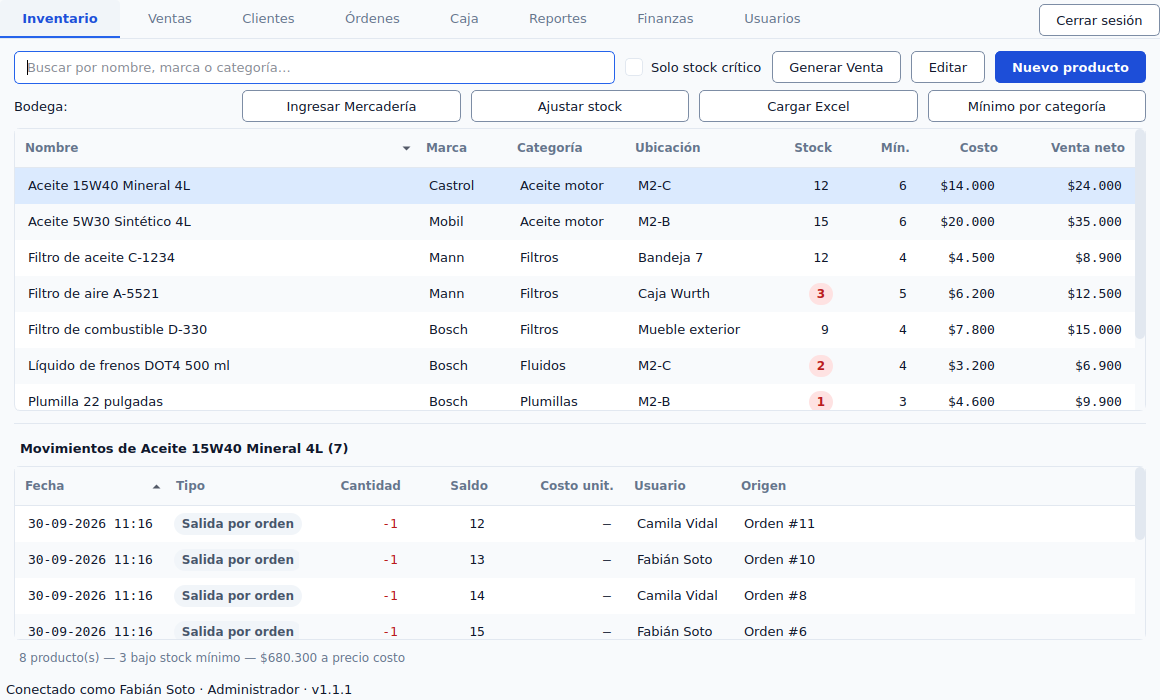
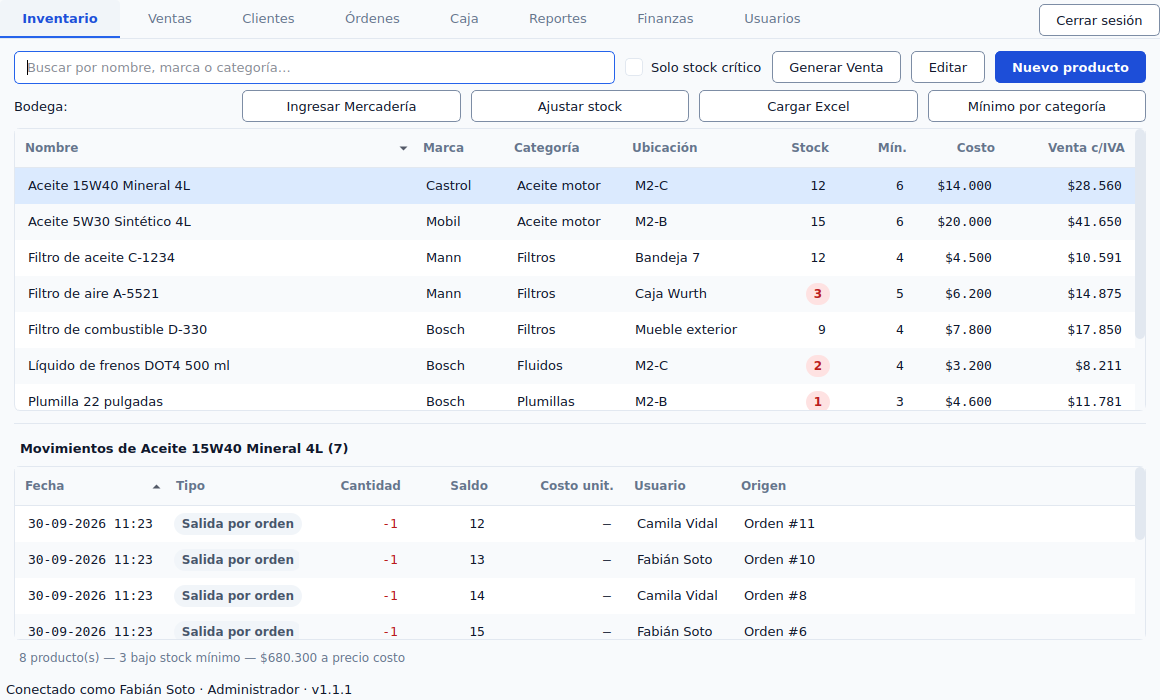
docs: manual for Venta c/IVA and the supplier-invoice question after an ingreso

diff --git a/docs/manuales/manual-usuario.tex b/docs/manuales/manual-usuario.tex
@@ -81,7 +81,9 @@ Crear usuarios, asignar roles y registrar mecánicos & --- & --- & Sí \\
 Todos los precios del catálogo —productos y servicios— se guardan \textbf{sin
 IVA}. El impuesto se calcula al cobrar, se muestra desglosado y queda guardado
 en la boleta o en la orden. Por eso, al crear un producto, el formulario pide el
-precio neto y muestra al lado cuánto es con IVA.
+precio neto y muestra al lado cuánto es con IVA. La excepción es la lista de
+Inventario, que en su última columna (\emph{Venta c/IVA}) muestra lo que paga
+el cliente, para no tener que sumar el impuesto de cabeza.
 
 \section{Inventario}
 
@@ -139,6 +141,13 @@ una sola vez.}
 
 Recién al confirmar se mueve el stock, y queda una entrada en el Kardex por cada
 producto.
+
+Luego el sistema pregunta si se quiere \textbf{registrar la factura de la
+compra en Finanzas}. Con \emph{Sí} se abre la ventana de nueva factura de
+proveedor (sección~\ref{sec:por-pagar}) con el total ya propuesto: el costo de
+lo ingresado más IVA. Ese total es solo una sugerencia; se corrige con el de la
+factura. Con \emph{No} no pasa nada más, y en ningún caso se deshace el
+ingreso.
 
 El costo que se escriba pasa a ser el del producto en el catálogo, y además
 queda guardado en esa entrada del Kardex. Por eso, meses después, el historial
@@ -635,6 +644,7 @@ ventana es angosta, la columna de costo se oculta y el costo aparece al dejar el
 mouse sobre el margen.
 
 \subsection{Por pagar}
+\label{sec:por-pagar}
 
 \pantalla{finanzas_por_pagar}{Facturas de proveedores, con su vencimiento.}
 
